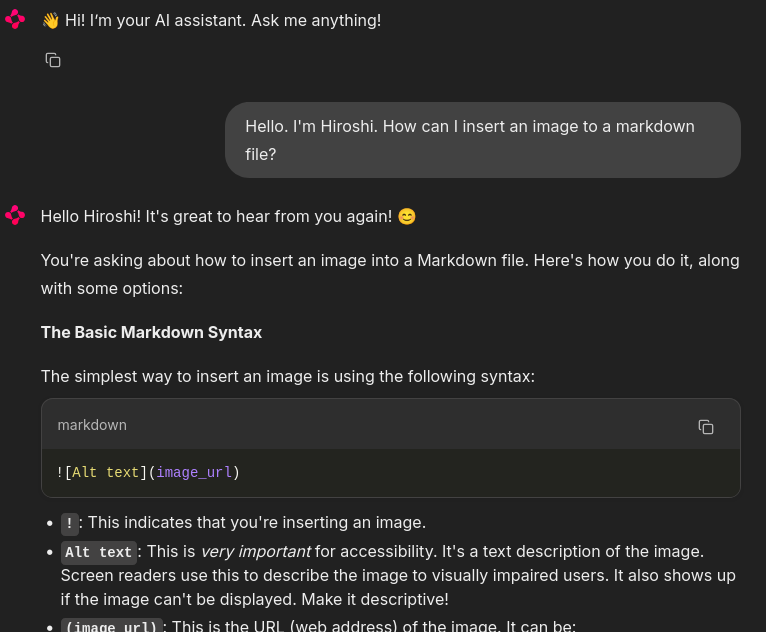
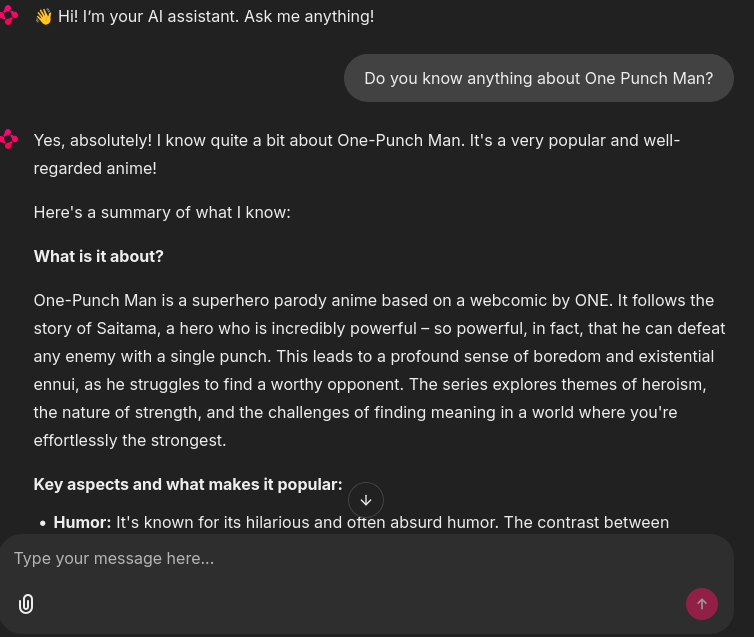
Minor updates

diff --git a/ctx_dat.py b/ctx_dat.py
@@ -160,7 +160,7 @@ def load_files(files: list[str],
     return CtxDocs(docs=docs, combined_ctx=combined_ctx)
  
 # Load context file
-# This doesn't split text
+# Note this doesn't split result text
 def load_ctx_file(ctx_file: str, docs):
     file = Path(ctx_file)
     if not file.is_file():
@@ -182,9 +182,9 @@ def load_ctx_file(ctx_file: str, docs):
     if info.extension_matches("pdf"):
         logger.info("Context file " + ctx_file + " was detected as a PDF file")
 
-        # We first use PyPDFLoader
-        # This is good for retrieving data that are not included in tables
         '''
+        # PyPDFLoader
+        # This is good for retrieving data that are not included in tables
         loader = PyPDFLoader(ctx_file)
         #load_pages_and_append(loader, docs)
         for page in loader.lazy_load():
@@ -192,11 +192,9 @@ def load_ctx_file(ctx_file: str, docs):
             #print("####\n" + str(page))
         '''
 
-        # Use pdfplumber
+        # Use original pdf loader using pdfplumber
         load_pdf_and_append(ctx_file, docs)
         #print(docs)
-        '''
-        '''
 
     # XLS, XLSX
     # Caution! Put this before DOC as xlsx is detected as DOC

diff --git a/gemma_ai.py b/gemma_ai.py
@@ -204,6 +204,7 @@ class GemmaAi:
         # Ask AI
         while num_retries < max_retries:
             try:
+                # Ask AI
                 chat_history = self.chat_history if self.use_history else []
                 answer = self.chain.invoke(
                             {"input": query, "chat_history": chat_history}

diff --git a/gpt_ai.py b/gpt_ai.py
@@ -215,6 +215,7 @@ class GptAi:
         # Ask AI
         while num_retries < max_retries:
             try:
+                # Ask AI
                 chat_history = self.chat_history if self.use_history else []
                 answer = self.chain.invoke(
                             {"input": query, "chat_history": chat_history}
